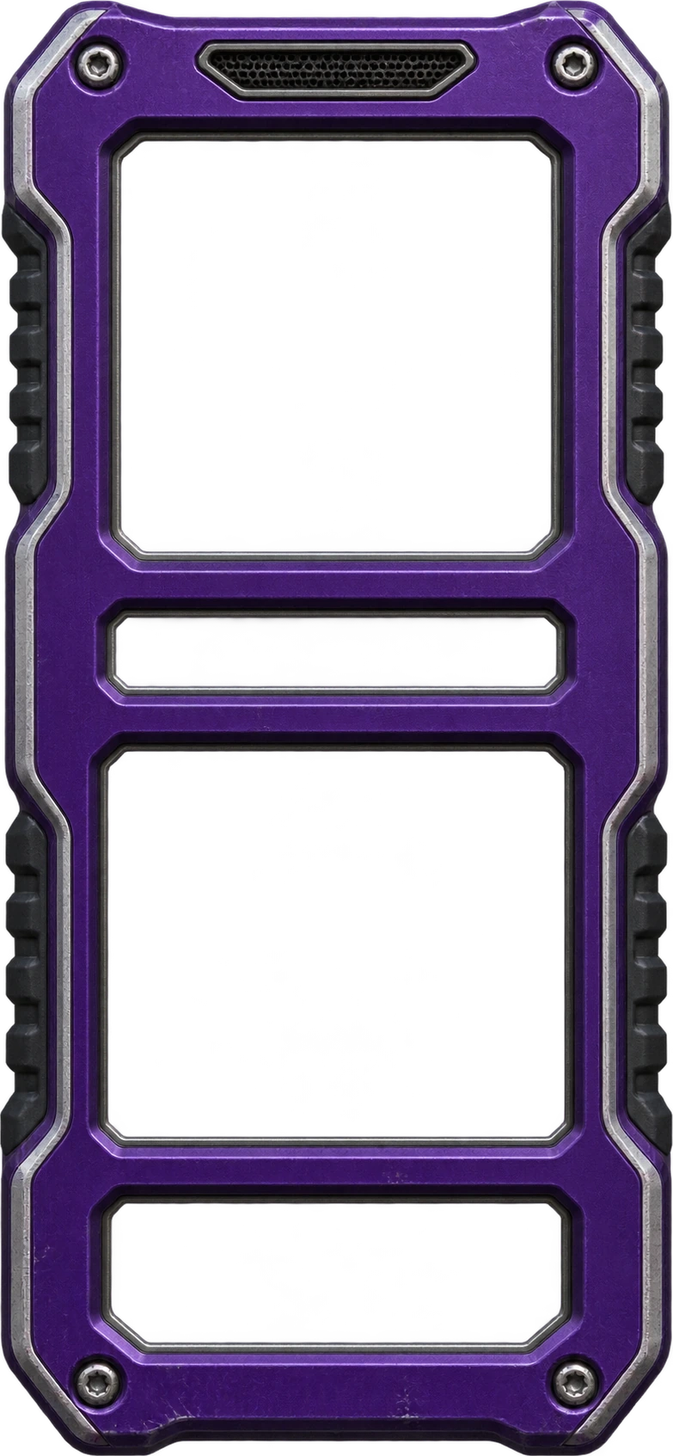
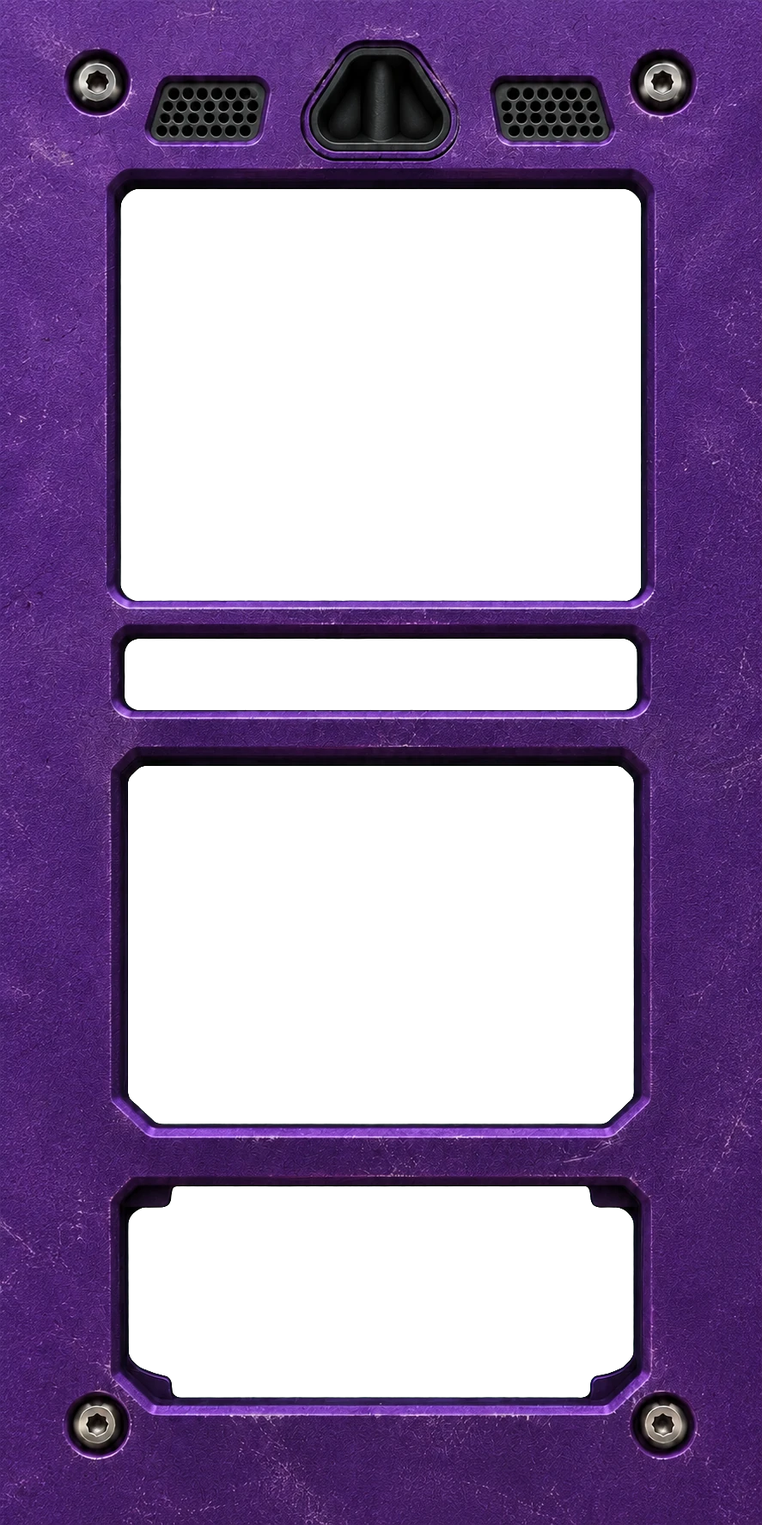
Edge-to-edge shell with lamp socket, plate extensions for status/home areas, manifest

diff --git a/experiments/gadget-ui/index.html b/experiments/gadget-ui/index.html
@@ -7,10 +7,11 @@
 <meta name="mobile-web-app-capable" content="yes">
 <meta name="apple-mobile-web-app-status-bar-style" content="black-translucent">
 <meta name="apple-mobile-web-app-title" content="Kora">
-<meta name="theme-color" content="#1a0b3d">
+<meta name="theme-color" content="#5b2c83">
+<link rel="manifest" href="manifest.webmanifest?v=20261020c">
 <title>Kora Gadget</title>
-<link rel="preload" as="image" href="assets/shell.webp?v=20261020a">
-<link rel="preload" as="image" href="assets/feed_down.webp?v=20261020a">
+<link rel="preload" as="image" href="assets/shell.webp?v=20261020c">
+<link rel="preload" as="image" href="assets/feed_down.webp?v=20261020c">
 <!--
   ניסוי עיצוב בלבד (D-045): כל הנתונים כאן מדומים, אין חיבור ל-Pi.
   גרסה 3: כל החלקים הפיזיים הם תמונות (נוצרו ב-GPT, עובדו ע"י tools/process_assets.py).
@@ -24,34 +25,38 @@
     --tx: 0; --ty: 0;
   }
   * { box-sizing: border-box; -webkit-tap-highlight-color: transparent; -webkit-touch-callout: none; }
+  html { background: #320f4d; }
   html, body { margin: 0; height: 100%; overflow: hidden; overscroll-behavior: none; }
   body {
-    position: fixed; inset: 0; display: flex; justify-content: center; align-items: center; perspective: 1200px;
-    background: linear-gradient(180deg, #4b2688 0%, #3d1965 40%, #2c0f52 100%);
+    position: fixed; left: 0; right: 0; top: 0; height: 100lvh; display: flex; justify-content: center; align-items: center; perspective: 1200px;
+    background: linear-gradient(180deg, #5b2c83 0%, #562d80 50%, #320f4d 100%);
     font-family: "Trebuchet MS", "Arial Rounded MT Bold", system-ui, sans-serif; color: #fff;
     user-select: none; -webkit-user-select: none; touch-action: manipulation;
-    padding: max(6px, env(safe-area-inset-top)) 6px max(6px, env(safe-area-inset-bottom));
+    padding: env(safe-area-inset-top) 0 env(safe-area-inset-bottom);
   }
 
   /* ---------- המכשיר: כל המיקומים באחוזים מתוך תמונת המעטפת (783x1693) ---------- */
   #shell {
-    position: relative; container-type: size; aspect-ratio: 783 / 1693;
-    height: min(100%, calc((100vw - 12px) * 2.162)); max-height: 100%;
+    position: relative; container-type: size; aspect-ratio: 887 / 1774;
+    height: min(100%, 200vw); max-height: 100%;
     transform: rotateX(calc(var(--ty) * -4deg)) rotateY(calc(var(--tx) * 5deg));
     filter: drop-shadow(calc(var(--tx) * -1.4cqw) calc(2.4cqw + var(--ty) * -.8cqw) 3.4cqw #000d) drop-shadow(0 .3cqw .4cqw #000);
   }
   #shell.shake { animation: shake .12s 3; } #shell.thump { animation: shake .09s 2; }
   .box { position: absolute; overflow: hidden; }
+  #shellTop, #shellBottom { position: absolute; left: 0; right: 0; height: 17cqw; z-index: 19; pointer-events: none; transform: scaleY(-1);
+    background: url("assets/shell.webp?v=20261020c") top / 100% 670cqw no-repeat; }
+  #shellTop { bottom: 100%; } #shellBottom { top: 100%; background-position: bottom; }
   #shellImg { position: absolute; inset: 0; width: 100%; height: 100%; z-index: 20; pointer-events: none; display: block; }
   #sheen { position: absolute; inset: 0; z-index: 21; pointer-events: none; mix-blend-mode: soft-light; opacity: .75;
     background: linear-gradient(calc(110deg + var(--tx) * 40deg), #fff0 0, #ffffffcc 42%, #fff0 62%);
-    -webkit-mask: url(assets/shell.webp?v=20261020a) center / 100% 100% no-repeat; mask: url(assets/shell.webp?v=20261020a) center / 100% 100% no-repeat; }
+    -webkit-mask: url(assets/shell.webp?v=20261020c) center / 100% 100% no-repeat; mask: url(assets/shell.webp?v=20261020c) center / 100% 100% no-repeat; }
 
   /* ---------- חלונות המעטפת (מתחת לתמונת המעטפת; מעט חופפים כדי שלא יהיו פערים) ---------- */
-  #screenBox { left: 17.4%; top: 9.45%; width: 65.1%; height: 28.7%; background: #0d1b2a; }
-  #counterBox { left: 16.8%; top: 42.2%; width: 66.3%; height: 5.2%; background: linear-gradient(#050202, #160800); }
-  #panelBox { left: 15.5%; top: 51.3%; width: 68.9%; height: 27%; background: #2c2e48; }
-  #tankBox { left: 16%; top: 82.4%; width: 67.9%; height: 10.1%; background: #111; }
+  #screenBox { left: 15.5%; top: 12%; width: 69%; height: 27.8%; background: #0d1b2a; }
+  #counterBox { left: 15.95%; top: 41.5%; width: 68%; height: 5.5%; background: linear-gradient(#050202, #160800); }
+  #panelBox { left: 16.4%; top: 49.8%; width: 67.2%; height: 24.2%; background: #2c2e48; }
+  #tankBox { left: 16.5%; top: 77.4%; width: 67%; height: 14.6%; background: #111; }
 
   /* מסך המצלמה */
   #screenBox canvas, #screenBox video { position: absolute; inset: 0; width: 100%; height: 100%; object-fit: cover; }
@@ -101,15 +106,15 @@
   /* כפתורי תמונה */
   .imgBtn { position: absolute; border: 0; padding: 0; background: none; cursor: pointer; }
   .imgBtn img { position: absolute; inset: 0; width: 100%; height: 100%; pointer-events: none; }
-  #audioBtn { left: 2.5%; top: 47%; width: 24%; aspect-ratio: 384 / 380; filter: drop-shadow(0 1cqw .8cqw #000c); transition: transform .06s; }
+  #audioBtn { left: 4%; top: 50%; width: 22%; aspect-ratio: 384 / 380; filter: drop-shadow(0 1cqw .8cqw #000c); transition: transform .06s; }
   #audioBtn .on, #audioBtn .dn { opacity: 0; transition: opacity .12s; } #audioBtn.active .on { opacity: 1; }
   #audioBtn:active .dn { opacity: 1; transition: none; } #audioBtn:active .up, #audioBtn:active .on { opacity: 0; transition: none; }
   #audioBtn:active { transform: translateY(.5cqw); filter: drop-shadow(0 .4cqw .4cqw #000c); }
-  #feedWrap { position: absolute; left: 29.5%; top: 33%; width: 40%; aspect-ratio: 1; }
+  #feedWrap { position: absolute; left: 31%; top: 35%; width: 36%; aspect-ratio: 1; }
   #feedRing { position: absolute; inset: -.6cqw; border-radius: 50%; pointer-events: none; z-index: 1; background: conic-gradient(var(--yellow) var(--p, 0%), transparent 0); -webkit-mask: radial-gradient(circle, transparent 66%, #000 68%); mask: radial-gradient(circle, transparent 66%, #000 68%); filter: drop-shadow(0 0 1cqw #ffe600aa); }
-  #feed { position: absolute; inset: 0; z-index: 2; border: 0; padding: 0; border-radius: 50%; cursor: pointer; background: url("assets/feed_up.webp?v=20261020a") center / contain no-repeat; filter: drop-shadow(0 1.6cqw 1cqw #000b) drop-shadow(0 .4cqw .3cqw #000); transition: transform .06s, filter .06s; }
+  #feed { position: absolute; inset: 0; z-index: 2; border: 0; padding: 0; border-radius: 50%; cursor: pointer; background: url("assets/feed_up.webp?v=20261020c") center / contain no-repeat; filter: drop-shadow(0 1.6cqw 1cqw #000b) drop-shadow(0 .4cqw .3cqw #000); transition: transform .06s, filter .06s; }
   #feed::after { content: ""; position: absolute; inset: 14%; border-radius: 50%; pointer-events: none; mix-blend-mode: screen; opacity: .55; background: radial-gradient(circle at calc(34% + var(--tx) * 14%) calc(26% + var(--ty) * 12%), #ffffff90 0, #ffffff00 38%); }
-  #feed:active:not(:disabled), #feed:disabled { background-image: url("assets/feed_down.webp?v=20261020a"); transform: translateY(.6cqw); filter: drop-shadow(0 .6cqw .4cqw #000b) drop-shadow(0 .2cqw .2cqw #000); }
+  #feed:active:not(:disabled), #feed:disabled { background-image: url("assets/feed_down.webp?v=20261020c"); transform: translateY(.6cqw); filter: drop-shadow(0 .6cqw .4cqw #000b) drop-shadow(0 .2cqw .2cqw #000); }
   #feed:disabled { filter: saturate(.7) brightness(.8) drop-shadow(0 .6cqw .4cqw #000b); cursor: default; }
 
   /* ידית: צלחת + כדור */
@@ -122,21 +127,21 @@
   #leverBall.auto { transition: transform .17s ease-in; }
 
   /* ראש המכשיר: נורת חוטם, סמל ושלט */
-  #lampWrap { position: absolute; left: 5%; top: 1.2%; width: 21.8%; aspect-ratio: 480 / 372; z-index: 22; cursor: pointer; }
+  #lampWrap { position: absolute; left: 40.7%; top: 3%; width: 19.5%; aspect-ratio: 480 / 372; z-index: 22; cursor: pointer; }
   #lampWrap img { position: absolute; inset: 0; width: 100%; height: 100%; pointer-events: none; }
   #lampWrap .on { opacity: 0; transition: opacity .08s; }
   #lampWrap.on .on { opacity: 1; animation: lampFlicker .5s steps(2) infinite; }
   #lampWrap.on { filter: drop-shadow(0 0 2.2cqw #ff1f3d) drop-shadow(0 0 5cqw #ff1f3dcc) drop-shadow(0 0 10cqw #ff1f3d88); }
   #emblem { position: absolute; left: 73.6%; top: 1.6%; width: 13%; z-index: 22; filter: drop-shadow(.3cqw .5cqw .3cqw #000a); }
-  #fps { position: absolute; left: 4%; top: 12%; z-index: 40; padding: .6cqw 1.6cqw; border-radius: 1cqw; background: #000c; color: #7CFF9B; font: 800 3cqw 'Courier New', monospace; white-space: pre; pointer-events: none; }
+  #fps { position: absolute; left: 4%; top: 13%; z-index: 40; padding: .6cqw 1.6cqw; border-radius: 1cqw; background: #000c; color: #7CFF9B; font: 800 3cqw 'Courier New', monospace; white-space: pre; pointer-events: none; }
   #nameplate { position: absolute; left: 29.4%; top: 6.5%; width: 41.8%; height: 2.7%; z-index: 22; display: grid; place-items: center; font: 900 4.2cqw/1 "Impact", "Arial Black", sans-serif; letter-spacing: 1.4cqw; color: #e8e4ff; text-shadow: 0 .2cqw 0 #fff6, 0 -.2cqw 0 #0009; }
 
   /* מיכל + כלבלב */
   #tankBox { background: #7aa84e; }
-  #tankScene { position: absolute; inset: 0; background: url("assets/tank_back.webp?v=20261020a") center / 100% 100% no-repeat; }
+  #tankScene { position: absolute; inset: 0; background: url("assets/tank_back.webp?v=20261020c") center / 100% 100% no-repeat; }
   #dogShadow { position: absolute; bottom: 15.5%; height: 6%; width: 14cqw; border-radius: 50%; background: radial-gradient(ellipse, #000a 0, #0000 72%); filter: blur(.3cqw); will-change: transform; left: 0; }
   #dog { position: absolute; left: 0; bottom: 17%; width: 0; height: 0; will-change: transform; z-index: 3; }
-  #dog img { position: absolute; bottom: 0; left: 0; max-width: none; opacity: 0; transition: opacity .16s linear; filter: drop-shadow(0 .3cqw .3cqw #0007); }
+  #dog img { position: absolute; bottom: 0; left: 0; max-width: none; opacity: 0; transition: opacity .07s linear; filter: drop-shadow(0 .3cqw .3cqw #0007); }
   #dog img.on { opacity: 1; }
   #dogFlip { position: absolute; left: 0; bottom: 0; width: 0; height: 0; transform-origin: 0 100%; }
   #dog.angry #dogFlip img { animation: bob .09s ease-in-out infinite alternate; }
@@ -158,6 +163,7 @@
   @keyframes marquee { to { transform: translateX(-100%); } }
   @keyframes shake { 0%, 100% { transform: rotateX(calc(var(--ty) * -4deg)) rotateY(calc(var(--tx) * 5deg)) translate(0); } 25% { transform: rotateX(calc(var(--ty) * -4deg)) rotateY(calc(var(--tx) * 5deg)) translate(-.8cqw, .5cqw); } 75% { transform: rotateX(calc(var(--ty) * -4deg)) rotateY(calc(var(--tx) * 5deg)) translate(.8cqw, -.5cqw); } }
   @media (prefers-reduced-motion: reduce) { #tickerInner { animation-duration: 0s; } }
+  #nameplate { left: 19.5%; top: 5%; width: 17%; height: 4.8%; font-size: 0; color: transparent; text-shadow: none; }  /* אזור נגיעה סמוי (גריל שמאל): שלוש נגיעות = מד אבחון */
 </style>
 </head>
 <body>
@@ -175,8 +181,8 @@
 
   <div id="counterBox" class="box">
     <div id="pm">
-      <button class="pmBtn" id="minus" aria-label="הורד חטיף"><img class="up" src="assets/minus_up.webp?v=20261020a" alt=""><img class="dn" src="assets/minus_down.webp?v=20261020a" alt=""></button>
-      <button class="pmBtn" id="plus" aria-label="הוסף חטיף"><img class="up" src="assets/plus_up.webp?v=20261020a" alt=""><img class="dn" src="assets/plus_down.webp?v=20261020a" alt=""></button>
+      <button class="pmBtn" id="minus" aria-label="הורד חטיף"><img class="up" src="assets/minus_up.webp?v=20261020c" alt=""><img class="dn" src="assets/minus_down.webp?v=20261020c" alt=""></button>
+      <button class="pmBtn" id="plus" aria-label="הוסף חטיף"><img class="up" src="assets/plus_up.webp?v=20261020c" alt=""><img class="dn" src="assets/plus_down.webp?v=20261020c" alt=""></button>
     </div>
     <div id="lcd"><div class="lbl">חטיפים<small>נשארו</small></div><div id="digits"></div></div>
   </div>
@@ -184,9 +190,9 @@
   <div id="panelBox" class="box">
     <div id="vuBox"><div id="vu"></div><div id="db">-60</div></div>
     <div id="gateBox"><input id="gate" type="range" min="0" max="100" value="35" aria-label="שער רעש"></div>
-    <button id="audioBtn" class="imgBtn" aria-label="הפעל שמע"><img class="up" src="assets/audio_off.webp?v=20261020a" alt=""><img class="on" src="assets/audio_on.webp?v=20261020a" alt=""><img class="dn" src="assets/audio_down.webp?v=20261020a" alt=""></button>
+    <button id="audioBtn" class="imgBtn" aria-label="הפעל שמע"><img class="up" src="assets/audio_off.webp?v=20261020c" alt=""><img class="on" src="assets/audio_on.webp?v=20261020c" alt=""><img class="dn" src="assets/audio_down.webp?v=20261020c" alt=""></button>
     <div id="feedWrap"><div id="feedRing"></div><button id="feed" aria-label="תן חטיף"></button></div>
-    <div id="lever"><img class="plate" src="assets/lever_plate.webp?v=20261020a" alt=""><div id="leverBall"><img src="assets/lever_ball.webp?v=20261020a" alt=""></div></div>
+    <div id="lever"><img class="plate" src="assets/lever_plate.webp?v=20261020c" alt=""><div id="leverBall"><img src="assets/lever_ball.webp?v=20261020c" alt=""></div></div>
   </div>
 
   <div id="tankBox" class="box">
@@ -200,17 +206,13 @@
   </div>
 
   <!-- תמונת המעטפת מעל הכל, ומעליה נורה, סמל ושלט -->
-  <img id="shellImg" src="assets/shell.webp?v=20261020a" alt="">
+  <div id="shellTop"></div><div id="shellBottom"></div>
+  <img id="shellImg" src="assets/shell.webp?v=20261020c" alt="">
   <div id="sheen"></div>
-  <div id="lampWrap" title="לחץ לבדיקת הנורה"><img src="assets/lamp_off.webp?v=20261020a" alt=""><img class="on" src="assets/lamp_on.webp?v=20261020a" alt=""></div>
-  <svg id="emblem" viewBox="0 0 64 64">
-    <defs><linearGradient id="gold" x1="0" y1="0" x2="0" y2="1"><stop offset="0" stop-color="#fff59a"/><stop offset=".5" stop-color="#ffe600"/><stop offset="1" stop-color="#e0a800"/></linearGradient></defs>
-    <path d="M8 14 L18 4 L24 14 M56 14 L46 4 L40 14" fill="#ff1f8e" stroke="#0c0620" stroke-width="3" stroke-linejoin="round"/>
-    <path d="M8 14 C20 18 44 18 56 14 C58 40 46 54 32 60 C18 54 6 40 8 14 Z" fill="url(#gold)" stroke="#0c0620" stroke-width="3.5" stroke-linejoin="round"/>
-    <path d="M35 17 L21 36 H30 L26 52 L44 30 H34 Z" fill="#7b2bff" stroke="#0c0620" stroke-width="2.5" stroke-linejoin="round"/>
-  </svg>
-  <div id="nameplate">KORA</div>
+  <div id="lampWrap" title="לחץ לבדיקת הנורה"><img src="assets/lamp_off.webp?v=20261020c" alt=""><img class="on" src="assets/lamp_on.webp?v=20261020c" alt=""></div>
+  <div id="nameplate"></div>
   <div id="fps" hidden></div>
+  <div id="probe" style="position:fixed;top:0;left:0;padding-top:env(safe-area-inset-top);visibility:hidden"></div>
 </div>
 
 <script>
@@ -317,10 +319,10 @@
   const dog = $('dog'), dogFlip = $('dogFlip');
   const POSES = ['walk_1', 'walk_2', 'walk_3', 'walk_4', 'alert', 'bark', 'eat', 'sit', 'sit_happy', 'sleep'];
   const sprites = {}; let moving = false, pause = 0, eatUntil = 0, idlePose = 'sit', curPose = '';
-  POSES.forEach((n) => { const im = new Image(); im.src = 'assets/dog_' + n + '.webp?v=20261020a'; im.alt = ''; dogFlip.appendChild(im); sprites[n] = im; });
-  fetch('assets/sizes.json?v=20261020a').then((r) => r.json()).then((sz) => {          // גודל ונקודת עיגון (קולר) לכל תנוחה
-    POSES.forEach((n) => { const m = sz['dog_' + n]; if (!m) return; sprites[n].style.height = (m.h / 405 * 10.2) + 'cqw'; sprites[n].style.translate = (-(m.ax || .75) * 100) + '% 0'; });
-  }).catch(() => POSES.forEach((n) => { sprites[n].style.height = '10.2cqw'; sprites[n].style.translate = '-75% 0'; }));
+  POSES.forEach((n) => { const im = new Image(); im.src = 'assets/dog_' + n + '.webp?v=20261020c'; im.alt = ''; dogFlip.appendChild(im); sprites[n] = im; });
+  fetch('assets/sizes.json?v=20261020c').then((r) => r.json()).then((sz) => {          // גודל ונקודת עיגון (קולר) לכל תנוחה
+    POSES.forEach((n) => { const m = sz['dog_' + n]; if (!m) return; sprites[n].style.height = (m.h / 405 * 11.6) + 'cqw'; sprites[n].style.translate = (-(m.ax || .75) * 100) + '% 0'; });
+  }).catch(() => POSES.forEach((n) => { sprites[n].style.height = '11.6cqw'; sprites[n].style.translate = '-75% 0'; }));
   function pickPose(now) {
     if (barking) return 'bark';
     if (now < eatUntil) return 'eat';
@@ -467,7 +469,7 @@
     plate.addEventListener('click', () => { const t = Date.now(); taps = taps.filter((x) => t - x < 1200); taps.push(t); if (taps.length >= 3) { on = !on; box.hidden = !on; taps = []; } });
     (function loop(now) {
       requestAnimationFrame(loop); frames++; worst = Math.max(worst, now - last); last = now;
-      if (on && now - t0 > 1000) { box.textContent = 'FPS ' + Math.round(frames * 1000 / (now - t0)) + '\nworst ' + Math.round(worst) + 'ms\nacx ' + (ac ? ac.state : 'none'); frames = 0; worst = 0; t0 = now; }
+      if (on && now - t0 > 1000) { box.textContent = 'FPS ' + Math.round(frames * 1000 / (now - t0)) + '\nworst ' + Math.round(worst) + 'ms\nacx ' + (ac ? ac.state : 'none') + '\nv 20261020c\nstandalone ' + navigator.standalone + '\nih ' + innerHeight + ' sh ' + screen.height + '\nsafeTop ' + $('probe').offsetHeight; frames = 0; worst = 0; t0 = now; }
     })(performance.now());
   })();
 

diff --git a/experiments/gadget-ui/tools/process_assets.py b/experiments/gadget-ui/tools/process_assets.py
@@ -88,7 +88,13 @@ def collar_anchor(im):
 
 
 # --- מעטפת ---
-sh = load('shell'); save(crop_resize(sh, bbox(sh, 20), 783), 'shell', 92)
+# מעטפת מקצה לקצה (887x1774): חלונות ירוקים פנימיים הופכים לשקופים; כל השאר אטום ולא נחתך
+sh = Image.open(SRC + 'shell_edge_original.png').convert('RGB'); shA = np.array(sh).astype('float32')
+d = shA[..., 1] - np.maximum(shA[..., 0], shA[..., 2])
+alpha = 1 - np.clip((d - 40) / 110.0, 0, 1)
+shA[..., 1] = np.where(d > 0, np.minimum(shA[..., 1], np.maximum(shA[..., 0], shA[..., 2]) + 4), shA[..., 1])
+shim = Image.fromarray(shA.astype('uint8')).convert('RGBA'); shim.putalpha(Image.fromarray((alpha * 255).astype('uint8')))
+save(shim, 'shell', 90)
 
 # --- שמע: כבוי / דולק / לחוץ ---
 for n in ('audio_off', 'audio_on'):

diff --git a/docs/TASKS.md b/docs/TASKS.md
@@ -41,7 +41,7 @@ SW-01 הושלם ב-2026-09-23. VPS + שרת איתות הוקמו ב-2026-09-25
 | INT-02 | שילוב ובדיקות אמינות | משותף | לא התחיל | תיעוד תקיעות, שחרורים כפולים, אתחולים וניתוקים; בדיקות עם קורה בהשגחה |
 | SW-07 | **Packaging/Release** — הפיכת האב-טיפוס למוצר ניתן לשכפול (הורחב 2026-09-27, ראו D-030) | איתי+שותף | לא התחיל | ראו פירוט תתי-משימות מתחת לטבלה |
 | SW-09 | גישה דרך Tailscale במקום VPS (ניסוי, D-045) | איתי | בביצוע | **2026-10-18:** ה-Pi והאייפון ב-tailnet `itaipo.github`; `tailscale serve` מגיש דף מה-Pi בכתובת `https://dogshitter.taile49d53.ts.net/` (tailnet בלבד); שרת הדף הוא שירות systemd `kora-gadget` (קובץ ב-`deploy/`). נפתח באייפון. נותר: שרת aiohttp ב-Pi שמקבל offer ומחזיר answer (בלי שרת איתות), וידאו ושמע אמיתיים בדף החדש, זיהוי משתמש מכותרות `Tailscale-User-*` והרשאות, אימות שיתוף מכשיר בתוכנית החינמית, והחלטה אם להחליף את ה-VPS (D-045) |
-| UI-01 | ממשק "גאדג'ט" — מראה של מכשיר פיזי לגיבור-על (`experiments/gadget-ui/index.html`) | איתי | בביצוע | **2026-10-18:** דף יחיד עם נתונים מדומים: מד חטיפים בספרות דיגיטליות עם כפתורי פלוס/מינוס, נורת נביחות בצורת חוטם, מסך מצלמה מדומה עם שורת הודעות, מד עוצמה ושער רעש, כפתורי האכלה/שמע/ידית מציאותיים, כלבלב במיכל זכוכית. נעול למסך (בלי גלילה). **שלבי ריאליזם 1+2 בוצעו:** נטייה והבהקים שזזים עם הטלפון + מרקמים (מתכת מוברשת, גרגר, שריטות, טביעות אצבע). **2026-10-18 (לילה): כל הנכסים נוצרו ושולבו — הדף נראה כמו מכשיר אמיתי (מעטפת סגולה משוריינת, כפתורים, נורת חוטם, ידית, מיכל זכוכית וכלבלב ריאליסטי).** הדף נבנה מחדש סביב תמונת המעטפת (כל המיקומים באחוזים, עם `cqw`); `tools/process_assets.py` מעבד את המקורות. פערים: ידית (תמונה לא נקייה; הופרדה בקוד), מיכל (נוקה), הילות צרובות בנורה ובכלבלב (הוסרו). **נבחר שלב 3 — תמונות GPT.** **עדכון (לילה מאוחר): הושלמו כל הנכסים החסרים (ידית נקייה, פריימי הליכה ורגש לכלב, כפתור שמע לחוץ, דיורמה מיניאטורית לרקע המיכל).** הצינור עבר ל-chroma key ירוק עם matting. **סטטוס 2026-10-20 (ערב): טופלו — (1) חיתוך עליון (הפס השחור הוא של אפל; הרקע צבוע סגול), (2) האייפון הוא המכשיר (D-048), (3) מיכל בדיורמה עם עומק (D-049), (4) תנועת כלב בפתרון ביניים (D-050). נותרו: סרטון הליכה, תקיעות/ביצועים (מד FPS נוסף), צלילים (איתי בודק דגימות), מעטפת חדשה עם שקע לנורה, חיבור הנורה לרעש.** משוב מקורי: (1) האייפון חתך את החלק העליון — תוקן (גובה המכשיר לא החסיר אזורי בטיחות); (2) רצון שהרקע ימלא את המסך (טעון הבהרה: מכשיר מקצה לקצה או רקע סביבו); (3) רקע המיכל נראה מאחורי הזכוכית ולא בתוכה — חסר עומק (רצפה, צל מכסה, פרלקסה) או רקע חדש בפרספקטיבה של פנים קופסה; (4) הכלב לא זז כמו כלב: 4 פריימים אינם מחזור הליכה, והמעבר בין תנוחות מתקע/מסדר לא נכון — נדרש סרטון הליכה שמפורק לפריימים + מכונת מצבים עם משכי מינימום; (5) תקיעות כלליות (ידיות וסאונד מפסיקים): חשד לעומס ציור (פילטרים, מסכות, שכבות גרדיאנט שמתעדכנות בכל פריים) ו/או השעיית AudioContext באייפון; נוסף מד FPS (שלוש נגיעות על השלט KORA), והנטייה הואטה ל-20fps; (6) צלילי הידית וכפתור ההאכלה לא נעימים — מעבר לדגימות אמיתיות; (7) מיקום נורת החוטם מוזר — מעטפת חדשה עם שקע ייעודי; (8) חיבור הנורה לרעש אמיתי — שלב הבא. **לוגו הערוץ (YI) נדחה** — שלושה כיוונים נפסלו (מצוצע מדי, אותיות קטנות, צריך עיגול אחד); להמשיך בנפרד. [היסטוריה: — תמונות ריאליסטיות מ-GPT.** הנכס הראשון (כפתור האכלה) נוצר ושולב (שקוף, 1254px → 512px WebP, כ-60KB) והתוצאה ריאליסטית בהרבה מה-CSS; שאר הנכסים והפרומפטים ב-`experiments/gadget-ui/assets/README.md`. נותר: ליצור את שאר הנכסים (מעטפת קודם, לקביעת סגנון) ולשלב; לא נבחר תלת-ממד (4) בשלב זה — D-046; חיבור לנתונים אמיתיים (`window.Kora`); חיבור כפתור ההאכלה לפקודת חטיף (SW-05); בדיקה בפועל של חיישן התנועה ושל הצלילים באייפון |
+| UI-01 | ממשק "גאדג'ט" — מראה של מכשיר פיזי לגיבור-על (`experiments/gadget-ui/index.html`) | איתי | בביצוע | **2026-10-18:** דף יחיד עם נתונים מדומים: מד חטיפים בספרות דיגיטליות עם כפתורי פלוס/מינוס, נורת נביחות בצורת חוטם, מסך מצלמה מדומה עם שורת הודעות, מד עוצמה ושער רעש, כפתורי האכלה/שמע/ידית מציאותיים, כלבלב במיכל זכוכית. נעול למסך (בלי גלילה). **שלבי ריאליזם 1+2 בוצעו:** נטייה והבהקים שזזים עם הטלפון + מרקמים (מתכת מוברשת, גרגר, שריטות, טביעות אצבע). **2026-10-18 (לילה): כל הנכסים נוצרו ושולבו — הדף נראה כמו מכשיר אמיתי (מעטפת סגולה משוריינת, כפתורים, נורת חוטם, ידית, מיכל זכוכית וכלבלב ריאליסטי).** הדף נבנה מחדש סביב תמונת המעטפת (כל המיקומים באחוזים, עם `cqw`); `tools/process_assets.py` מעבד את המקורות. פערים: ידית (תמונה לא נקייה; הופרדה בקוד), מיכל (נוקה), הילות צרובות בנורה ובכלבלב (הוסרו). **נבחר שלב 3 — תמונות GPT.** **עדכון (לילה מאוחר): הושלמו כל הנכסים החסרים (ידית נקייה, פריימי הליכה ורגש לכלב, כפתור שמע לחוץ, דיורמה מיניאטורית לרקע המיכל).** הצינור עבר ל-chroma key ירוק עם matting. **עדכון 2026-10-20 (לילה): מעטפת מקצה לקצה חדשה (D-051) — האייפון הוא המכשיר; נורת החוטם בשקע ייעודי; תוקנה שקיפות הכלב (דהיית הפריימים הייתה ארוכה ממשך הפריים והכלב נראה חצי שקוף); מד האבחון מציג גרסה/מצב עצמאי/גבהים/אזור בטיחות (שלוש נגיעות על הרמקול השמאלי).** **סטטוס 2026-10-20 (ערב): טופלו — (1) חיתוך עליון (הפס השחור הוא של אפל; הרקע צבוע סגול), (2) האייפון הוא המכשיר (D-048), (3) מיכל בדיורמה עם עומק (D-049), (4) תנועת כלב בפתרון ביניים (D-050). נותרו: סרטון הליכה, תקיעות/ביצועים (מד FPS נוסף), צלילים (איתי בודק דגימות), מעטפת חדשה עם שקע לנורה, חיבור הנורה לרעש.** משוב מקורי: (1) האייפון חתך את החלק העליון — תוקן (גובה המכשיר לא החסיר אזורי בטיחות); (2) רצון שהרקע ימלא את המסך (טעון הבהרה: מכשיר מקצה לקצה או רקע סביבו); (3) רקע המיכל נראה מאחורי הזכוכית ולא בתוכה — חסר עומק (רצפה, צל מכסה, פרלקסה) או רקע חדש בפרספקטיבה של פנים קופסה; (4) הכלב לא זז כמו כלב: 4 פריימים אינם מחזור הליכה, והמעבר בין תנוחות מתקע/מסדר לא נכון — נדרש סרטון הליכה שמפורק לפריימים + מכונת מצבים עם משכי מינימום; (5) תקיעות כלליות (ידיות וסאונד מפסיקים): חשד לעומס ציור (פילטרים, מסכות, שכבות גרדיאנט שמתעדכנות בכל פריים) ו/או השעיית AudioContext באייפון; נוסף מד FPS (שלוש נגיעות על השלט KORA), והנטייה הואטה ל-20fps; (6) צלילי הידית וכפתור ההאכלה לא נעימים — מעבר לדגימות אמיתיות; (7) מיקום נורת החוטם מוזר — מעטפת חדשה עם שקע ייעודי; (8) חיבור הנורה לרעש אמיתי — שלב הבא. **לוגו הערוץ (YI) נדחה** — שלושה כיוונים נפסלו (מצוצע מדי, אותיות קטנות, צריך עיגול אחד); להמשיך בנפרד. [היסטוריה: — תמונות ריאליסטיות מ-GPT.** הנכס הראשון (כפתור האכלה) נוצר ושולב (שקוף, 1254px → 512px WebP, כ-60KB) והתוצאה ריאליסטית בהרבה מה-CSS; שאר הנכסים והפרומפטים ב-`experiments/gadget-ui/assets/README.md`. נותר: ליצור את שאר הנכסים (מעטפת קודם, לקביעת סגנון) ולשלב; לא נבחר תלת-ממד (4) בשלב זה — D-046; חיבור לנתונים אמיתיים (`window.Kora`); חיבור כפתור ההאכלה לפקודת חטיף (SW-05); בדיקה בפועל של חיישן התנועה ושל הצלילים באייפון |
 | SW-08 | זיהוי נביחות: התראה והקלטה אירועית | איתי | לא התחיל | רעיון מ-2026-10-17: המיקרופון משמש להאזנה ולזיהוי נביחות; בהמשך תוכנה שמתריעה ומקליטה. הקלטות חשובות יתבצעו מהטלפון. תלוי SW-03 (קליטה עובדת) ו-SW-05/06 (ערוץ לטלפון) |
 | ME-04 | תושבת Zero וקובצי הדפסה מסודרים | שותף | לא התחיל | התאמה למכשיר נוסף |
 

diff --git a/docs/DECISIONS.md b/docs/DECISIONS.md
@@ -55,6 +55,7 @@
 | D-048 | **האייפון הוא המכשיר:** רקע הדף בצבע פני המעטפת (סגול) כך שאזור שעון המערכת של אפל והשוליים לא נראים כפס שחור; גובה המכשיר נקבע לפי המכל הפנוי (בלי אזורי בטיחות); כל כתובות הנכסים עם פרמטר גרסה למניעת מטמון ישן באייפון | הוחלט ויושם 2026-10-20 | איתי: "שהאייפון יהיה המכשיר". הפס השחור העליון באפליקציית מסך בית הוא התנהגות של iOS (שעון/אי דינמי) ולא טעות רזולוציה. מעטפת מקצה לקצה אמיתית דורשת תמונת מעטפת בפרופורציות האייפון (נשאר רעיון עתידי) |
 | D-049 | **מיכל = דיורמה בקופסת זכוכית אחת עם עומק** (קירות צד, רצפה, תאורה מלמעלה, מסגרת עץ) במקום רקע שטוח + שכבת זכוכית נפרדת | הוחלט ויושם 2026-10-20 | הרקע הקודם נראה "מאחורי" הזכוכית ולא בתוכה; התמונה החדשה נוצרה בפרומפט של "פנים קופסה". הכלב קטן יותר (קנה מידה 10.2cqw) ומונח קרוב לחזית הרצפה (פרספקטיבה) |
 | D-050 | **תנועת הכלב:** פתרון ביניים בקוד — דהייה רכה בין תנוחות עם אותה נקודת עיגון, הליכה איטית, עמידה במקום בנביחה/אכילה, הפסקות ארוכות יותר. פתרון אמיתי: סרטון הליכה (מחזור) שמפורק לפריימים — נדחה כי איתי לא מכיר שירות וידאו חינמי מתאים | הוחלט 2026-10-20; פתוח | ארבע תמונות עומדות אינן מחזור הליכה; המצב הקודם גרם לגלישה/תקיעות. אפשרויות עתידיות: כלי וידאו (Sora/Veo/Kling/Runway), או חלוקת הכלב לחלקים (גוף, ראש, זנב, רגליים) לאנימציית שלד |
+| D-051 | **מעטפת מקצה לקצה (887x1774):** צלחת סגולה אחת שממלאת את כל המסך, עם שקע בצורת חוטם במרכז העליון לנורה (בין שני רמקולים), ארבעה חלונות (מסך, מונה, לוח בקרה, מיכל). אזור שעון המערכת ופס הבית של האייפון מולאו בהרחבת קצה התמונה (מתוחה ומשוקפת, בלי תפר). הסמל והשלט "KORA" הוסרו מהמעטפת (הלוגו נדחה). נוסף `manifest.webmanifest` (standalone, צבעים סגולים), ו-`theme-color` סגול | הוחלט ויושם 2026-10-20 | הכיוון הקודם (מכשיר בתוך המסך) לא נתן את האשליה ש"האייפון הוא המכשיר". הפס השחור העליון באפליקציית מסך בית: אחרי הוספת `black-translucent` הוא נהיה שקוף (עם גרדיאנט של iOS) — נשאר רק פס לבן בתחתית שתוקן ב-`html{background}` ו-`100lvh` |
 
 ## החלטות פתוחות
 - **חיווט הרמקול:** מחבר הרמקול בכרטיס הוא 4 פינים (VORN, VORP, VOLP, VOLN, יציאות BTL — אין לחבר חוט רמקול ל-GND), בעוד שכבל ה-PH2.0 שהוזמן הוא 2 פינים. יש לאמת את סדר הפינים מהכיתוב על הלוח, ולהחליט: כבל 2 פינים על זוג סמוך, מחבר 4 פינים, או הלחמה ישירה.

diff --git a/docs/STORY.md b/docs/STORY.md
@@ -66,6 +66,7 @@
 - **סבב 4 — מ-CSS לתמונות GPT:** איתי ייצר ב-GPT מעטפת, כפתורים, נורת חוטם, מיכל וכלבלב; הפער בין "מצויר" לריאליסטי היה מיידי. **הרגעים:** (א) תמונות עם "רקע שקוף" שכללו הילה צרובה ושאריות משבצות שקיפות — נדרש ניקוי אוטומטי; (ב) ידית שהגיעה כתמונה אחת עם כדור והילה, שפורקה בקוד לצלחת וכדור; (ג) הדף הפך לדף שנבנה סביב המעטפת. **לקח:** תמונות שנוצרו ב-AI הן חומר גלם, לא נכס מוגמר — צריך צינור עיבוד (`tools/process_assets.py`).
 - **סבב 5 — השלמות ופסילות:** (א) בקשת רקע ירוק במקום "שקוף" שיפרה דרמטית את הניקיון, אבל נדרש matting כדי להסיר את הירוק מקצוות הפרווה (פעם ראשונה נשארו קווי מתאר צהבהבים); (ב) "הסלון" נפסל כי הכלב נראה כלוא, והוחלף בדיורמה מיניאטורית פתוחה; (ג) לוגו הערוץ: שלושה כיוונים נפסלו (צעצועי, אותיות קטנות, לא עגול) — דוגמה להחלטה שנמשכת; (ד) קריאת `floodfill` של Pillow נכשלה בשקט והוחלפה ב-`scipy.ndimage.label`.
 - **סבב 6 — האייפון עצמו:** הדף נראה טוב בדפדפן אבל באייפון (אפליקציית מסך בית) הופיע פס שחור עליון, הכלב לא זז כמו כלב, והכל נתקע לפעמים. **רגעים:** (א) "זה של אפל ולא שלך" — להבדיל בין באג לבין התנהגות פלטפורמה; (ב) המיכל נראה "מאחורי" הזכוכית — חסר עומק, ופרומפט חדש של "פנים קופסה" פתר את זה; (ג) תנועה מ-4 תמונות עומדות לא מרגישה חיה — צריך וידאו; (ד) תקיעות שנחשדות בעומס ציור. **לקח:** בדיקה בדפדפן במחשב לא מחליפה בדיקה בטלפון האמיתי; נוסף מד FPS מובנה.
+- **סבב 7 — "האייפון הוא המכשיר":** איתי הבין שמכשיר בתוך המסך לא נותן אשליה, ויצר ב-GPT מעטפת מקצה לקצה. **רגעים:** (א) "זה נראה כמו כל המכשיר" — שינוי כיוון מתוך משוב ויזואלי; (ב) באג עדין: הכלב נראה חצי שקוף כי דהיית הפריימים (0.16 שנ') הייתה ארוכה מקצב ההליכה (0.15 שנ') — לא ראיתי בצילום, תפסתי כשבדקתי opacity ב-JS; (ג) פס שחור של אפל נהיה שקוף אחרי `black-translucent` + רקע סגול, וקווי תחתית לבנים תוקנו ב-`100lvh`.
 - **צילום:** שלושת הסבבים זה לצד זה; הטיית הטלפון; הידית והכלבלב שרץ אל החטיף; לפני/אחרי של ניקוי התמונות (המיכל עם "המשבצות" מול הנקי).
 
 ## רעיונות לפרקי סרטון (טיוטה)
